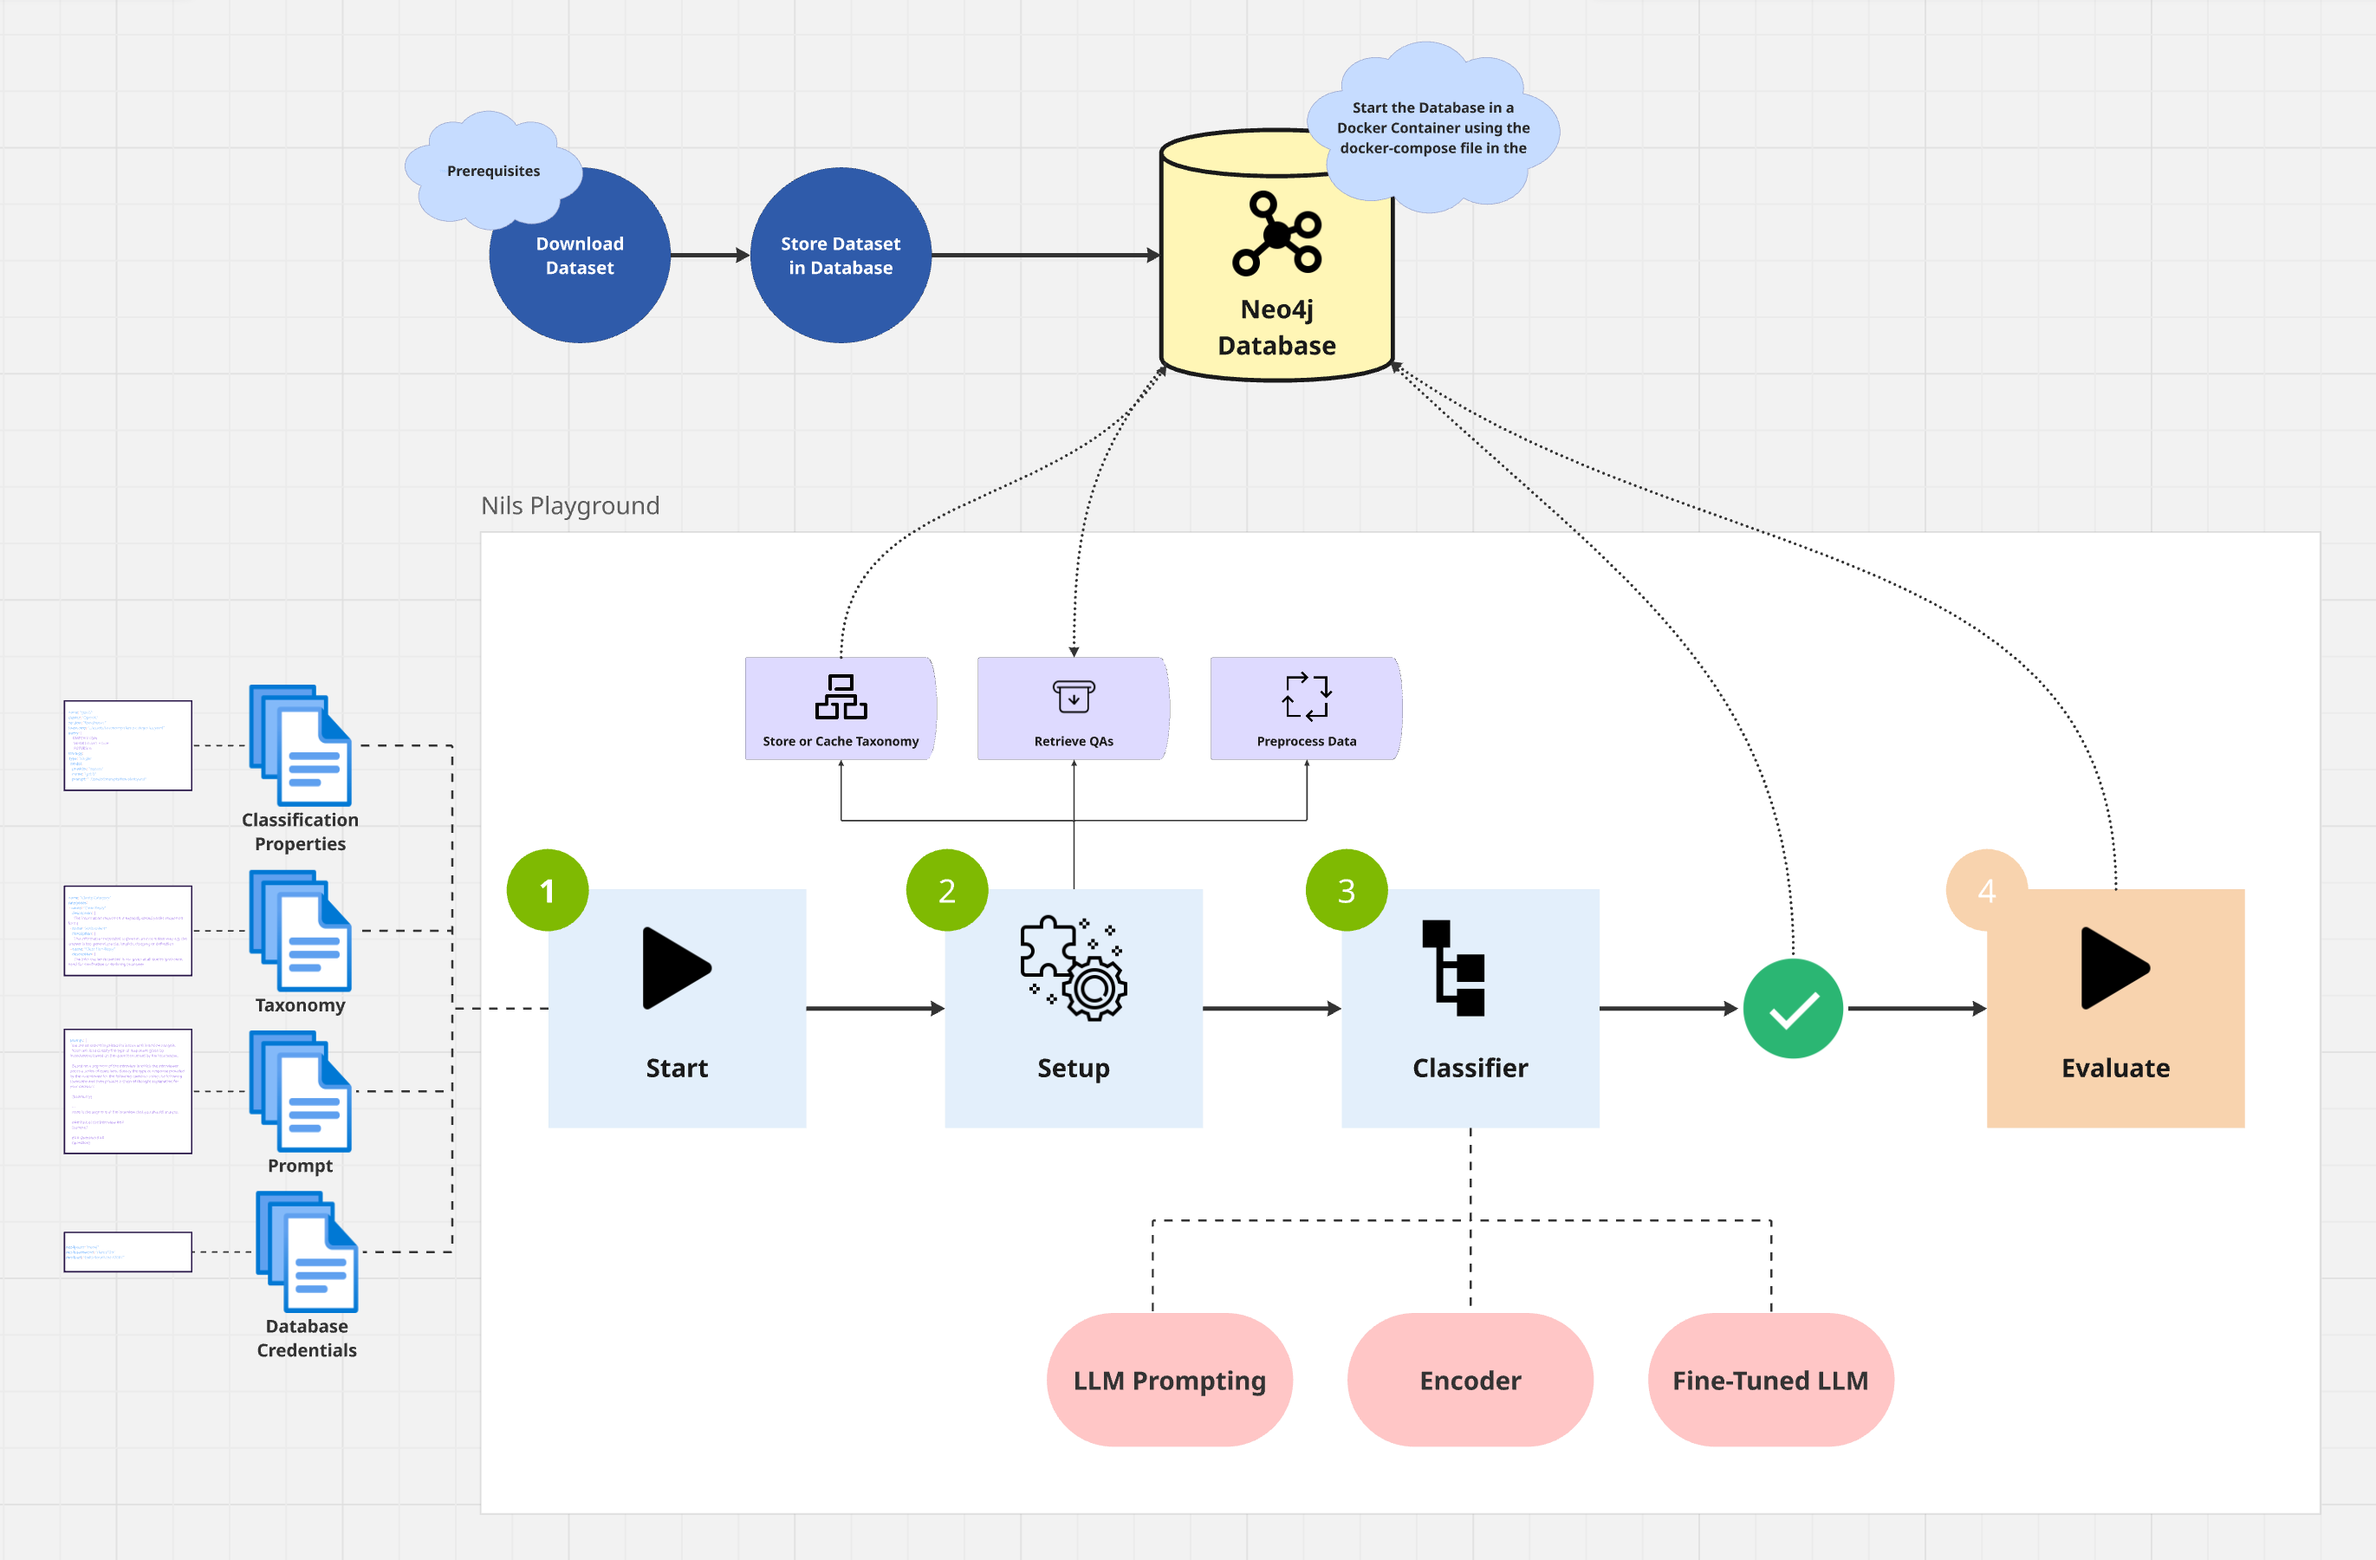
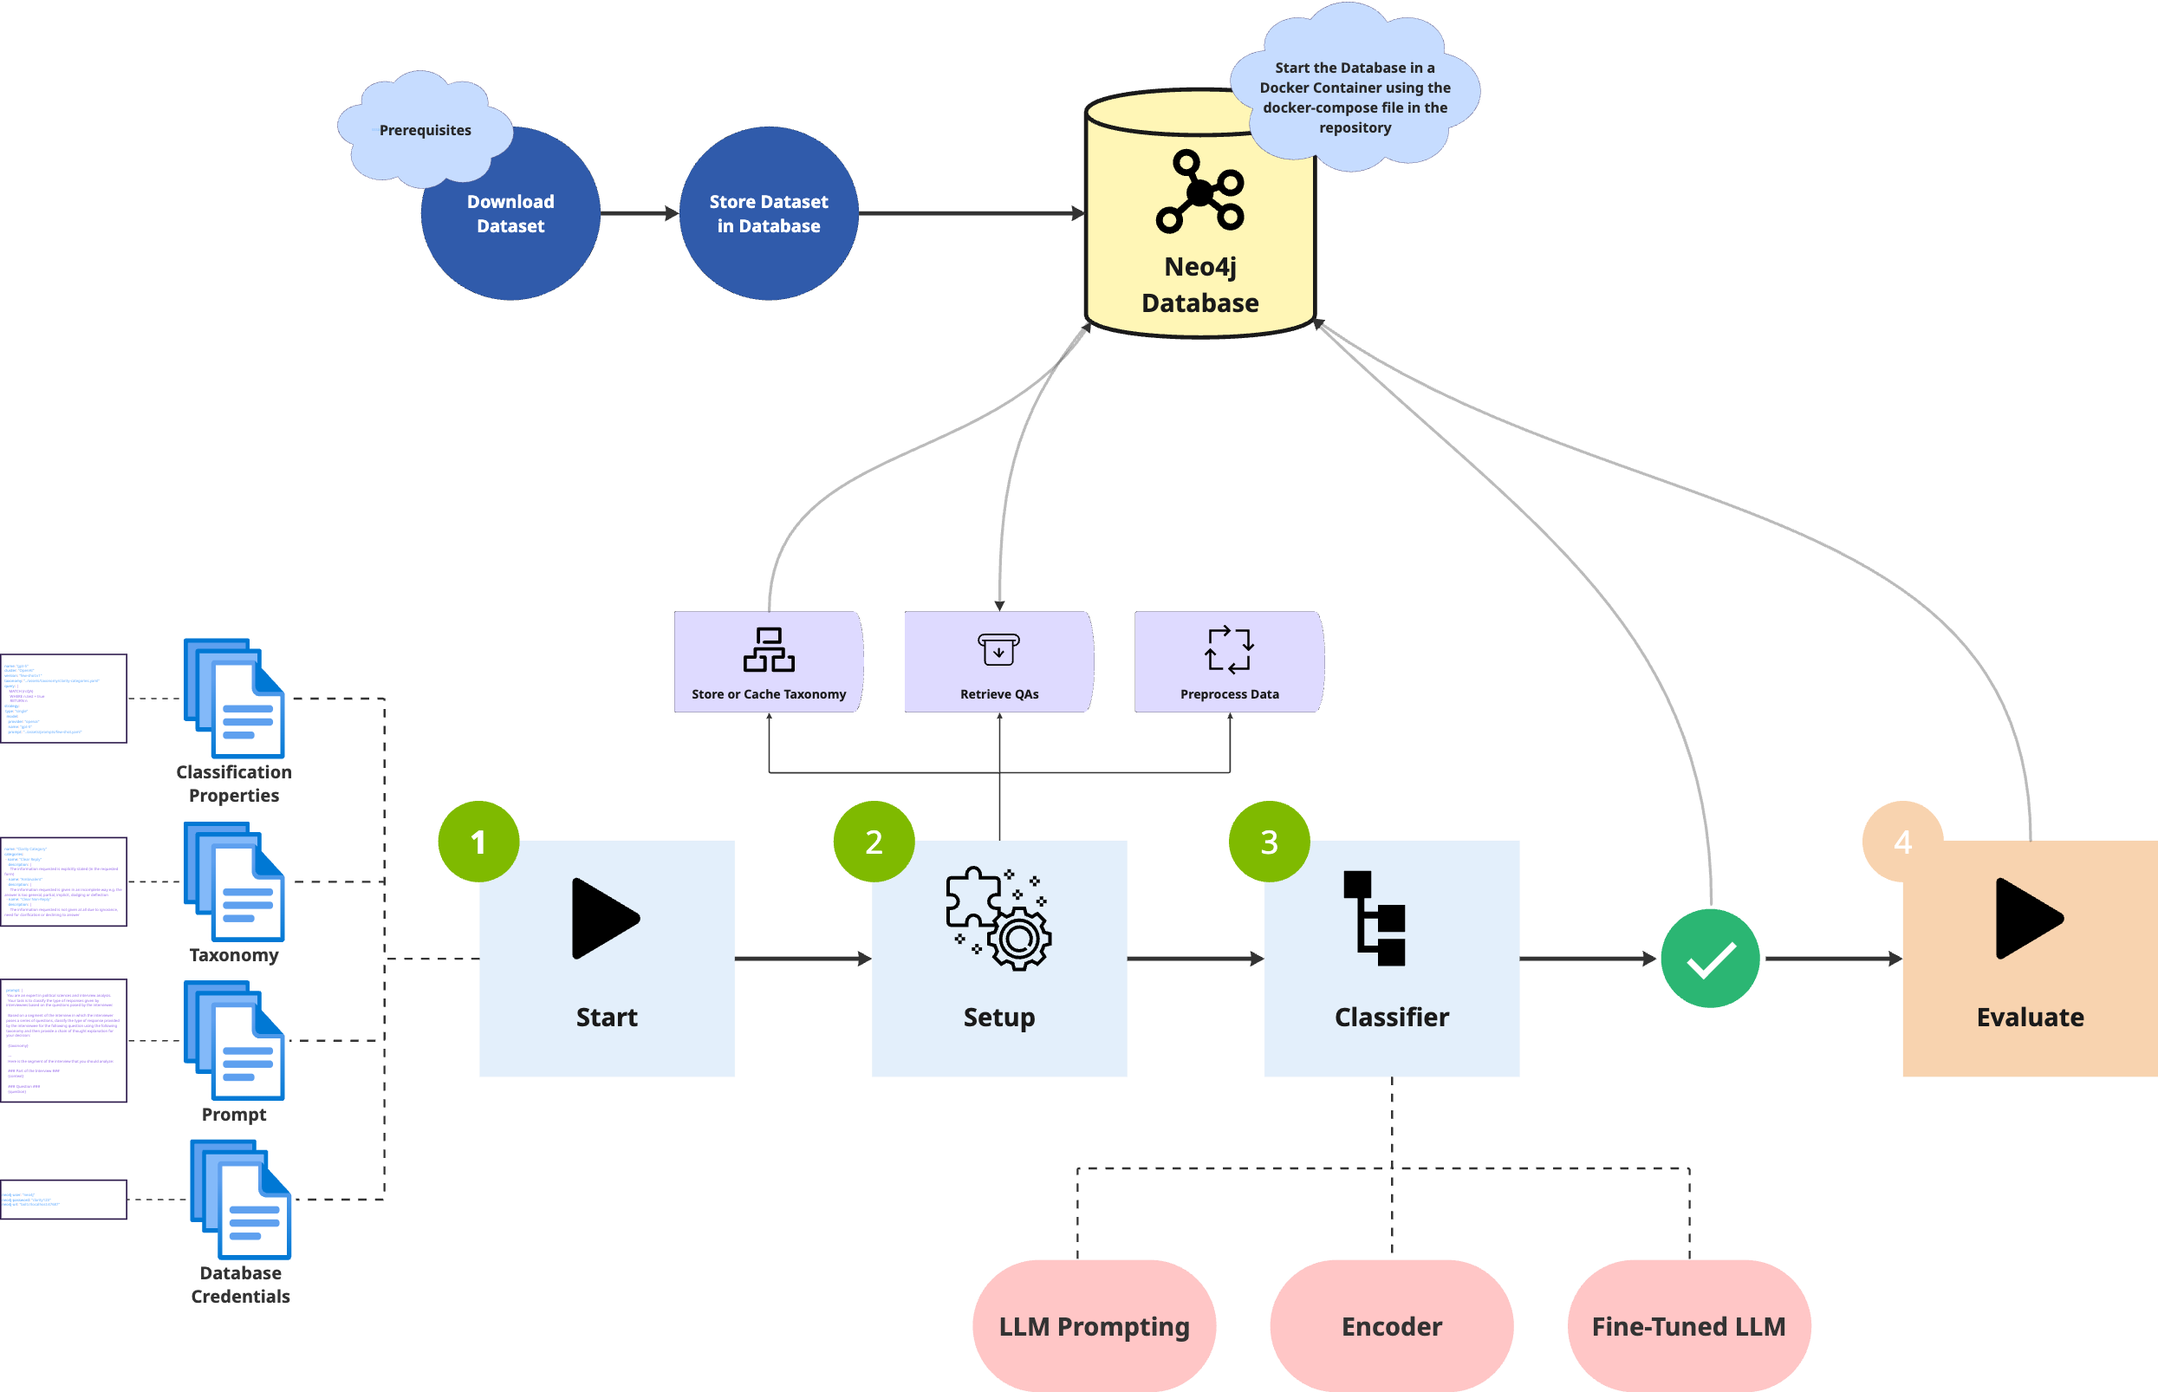
Update README.md

diff --git a/README.md b/README.md
@@ -3,6 +3,7 @@
 - [📊 SemEval 2026 Task](https://konstantinosftw.github.io/CLARITY-SemEval-2026/)
 - [🤗 Dataset](https://huggingface.co/datasets/ailsntua/QEvasion)
 - [📄 A dataset, taxonomy and baselines on response clarity classification](https://arxiv.org/abs/2409.13879)
+- [:octocat: GitHub Repository](https://github.com/omarelbeltagy/clarity)
 
 > A repository for the SemEval 2026 Task on Unmasking Political Question Evasions.
 
@@ -83,12 +84,12 @@ Both tasks use macro F1‐score evaluated on a test set.
 
 1. Clone the repository:
     ```bash
-    git clone <REPOSITORY_URL>
+    git clone https://github.com/omarelbeltagy/clarity.git
     ```
 
 2. Build the java project with Maven:
     ```bash
-    cd <PROJECT_DIRECTORY>
+    cd clarity
     mvn clean install -U -DskipTests
     ```
 
@@ -106,7 +107,7 @@ TOGETHER_API_KEY=your_together_api_key
 ### Database Setup
 
 The project uses a [Neo4j](https://neo4j.com) graph database to store and manage data. It already provides
-a [Neo4j docker-compose setup](clarity-neo4j/src/main/resources/docker-compose.yaml)for local development.
+a [Neo4j docker-compose setup](clarity-neo4j/src/main/resources/docker-compose.yaml) for local development.
 
 To start the Neo4j database locally in a Docker container:
 
